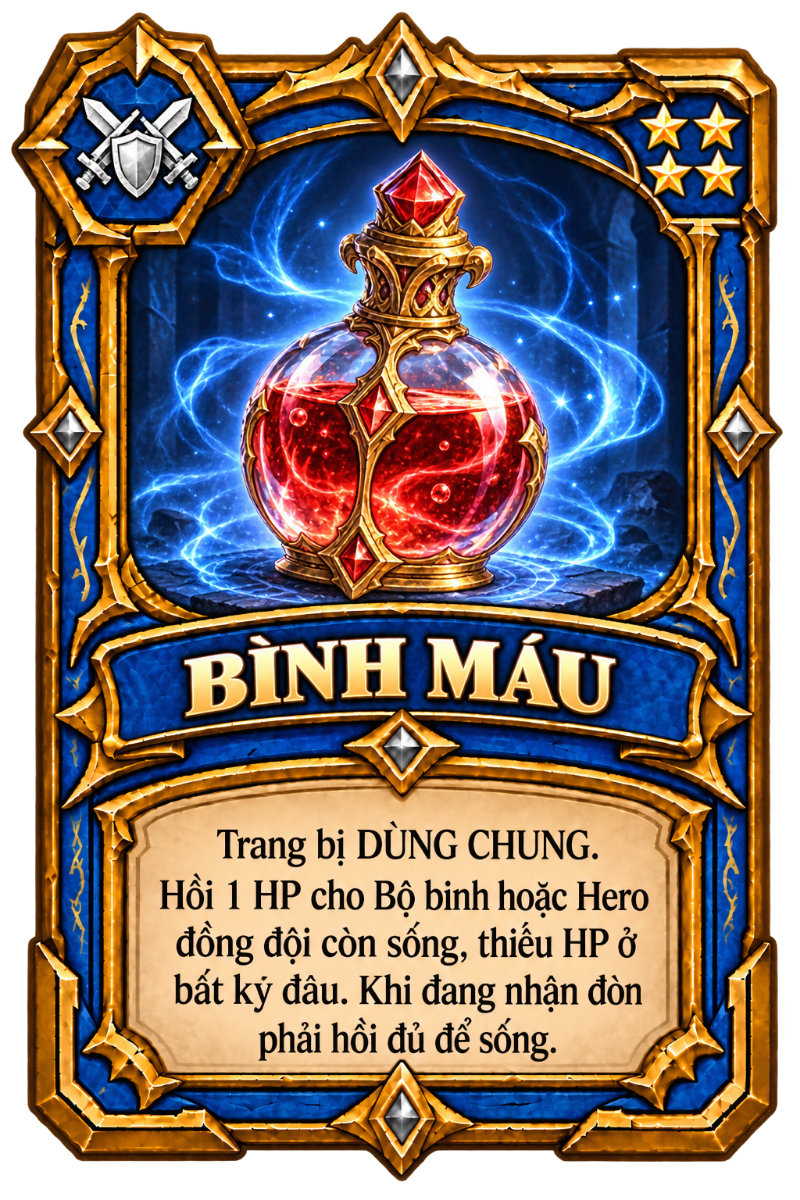
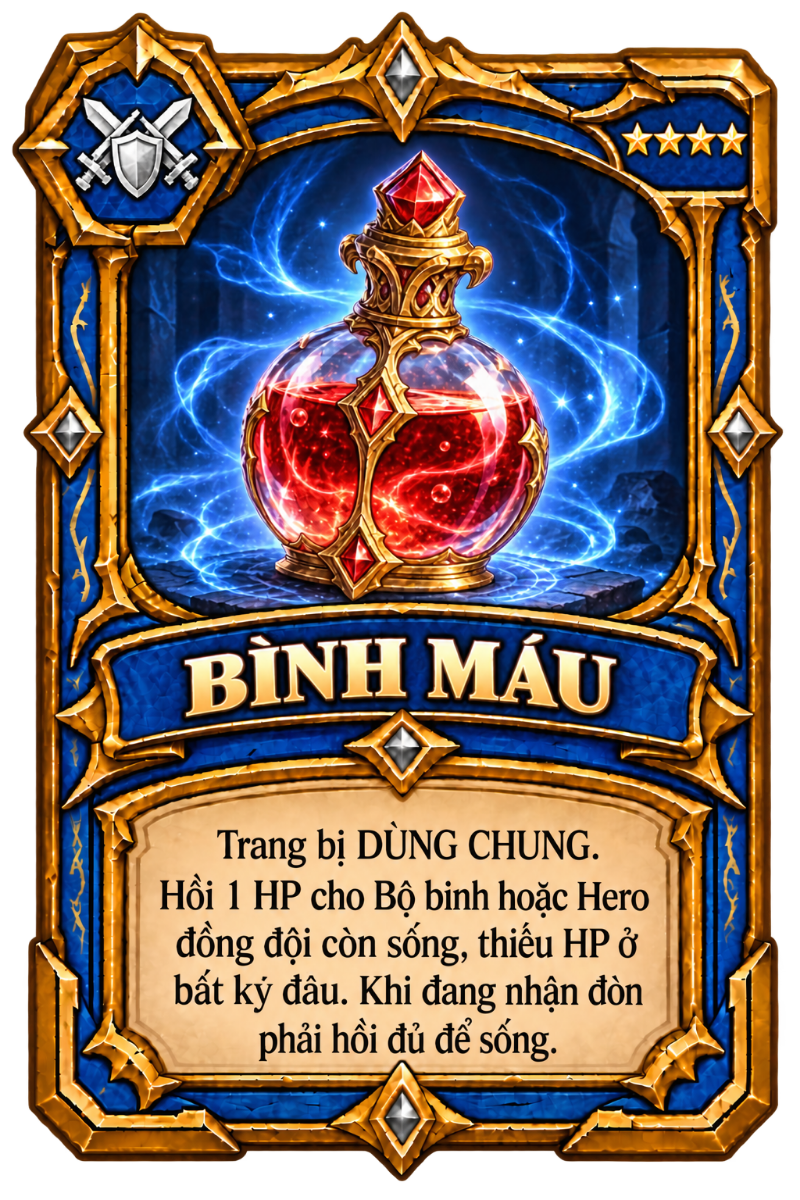
fix(assets): arrange Healing Potion stars in a single horizontal row

diff --git a/assets/card-gallery/common/index.html b/assets/card-gallery/common/index.html
@@ -1,1 +1,1 @@
-<!doctype html><html lang="vi"><head><meta charset="utf-8"><meta name="viewport" content="width=device-width,initial-scale=1"><title>DozenWar — Trang bị dùng chung</title><style>body{margin:0;padding:24px;background:#111c32;color:#eef4ff;font:16px system-ui}main{max-width:1300px;margin:auto}.cards{display:grid;grid-template-columns:repeat(auto-fit,minmax(260px,1fr));gap:24px}article{background:#203452;padding:16px;border-radius:12px}.preview{display:block;margin-top:12px;background-color:#22344c;background-image:linear-gradient(45deg,#2c4059 25%,transparent 25%),linear-gradient(-45deg,#2c4059 25%,transparent 25%),linear-gradient(45deg,transparent 75%,#2c4059 75%),linear-gradient(-45deg,transparent 75%,#2c4059 75%);background-size:24px 24px;background-position:0 0,0 12px,12px -12px,-12px 0}img{width:100%;height:auto;display:block}a{color:#ffd583}h2{font-size:20px}details{margin-top:12px}summary{cursor:pointer}@media(max-width:420px){body{padding:12px}}</style></head><body><main><h1>Trang bị dùng chung — tông xanh dương</h1><p>11 mẫu · 23 lá trong deck. PNG 800 × 1200, nền trong suốt ngoài khung. Dữ liệu theo catalog DozenWar trên GitHub.</p><p><a href="catalog.json" download>Tải catalog JSON</a> · <a href="../../../">Về game</a></p><div class="cards"><article data-equipment-id="EQUIP_COMMON_ATK_003"><h2>Lọ Phép Thuật</h2><p>Công · 1 sao · 1 lá trong deck</p><a href="EQUIP_COMMON_ATK_003.png" download>Tải PNG 800 × 1200</a><a class="preview" href="EQUIP_COMMON_ATK_003.png"><img loading="lazy" src="EQUIP_COMMON_ATK_003.png" alt="Lọ Phép Thuật" width="800" height="1200"></a><details><summary>Hiệu ứng trong catalog</summary><p>Đòn thường và skill Attack trong một commit không được Guard Bộ binh; vẫn có phản ứng phòng thủ khác hợp lệ.</p></details></article><article data-equipment-id="EQUIP_COMMON_ATK_004"><h2>Thuốc Hồi Sức</h2><p>Công · 1 sao · 2 lá trong deck</p><a href="EQUIP_COMMON_ATK_004.png" download>Tải PNG 800 × 1200</a><a class="preview" href="EQUIP_COMMON_ATK_004.png"><img loading="lazy" src="EQUIP_COMMON_ATK_004.png" alt="Thuốc Hồi Sức" width="800" height="1200"></a><details><summary>Hiệu ứng trong catalog</summary><p>+1 lần tấn công cho đòn thường hoặc skill Attack trong một commit; mỗi lần mở phản ứng phòng thủ riêng.</p></details></article><article data-equipment-id="EQUIP_COMMON_DEF_001"><h2>Quyền Trượng Phép Thuật</h2><p>Thủ · 3 sao · 2 lá trong deck</p><a href="EQUIP_COMMON_DEF_001.png" download>Tải PNG 800 × 1200</a><a class="preview" href="EQUIP_COMMON_DEF_001.png"><img loading="lazy" src="EQUIP_COMMON_DEF_001.png" alt="Quyền Trượng Phép Thuật" width="800" height="1200"></a><details><summary>Hiệu ứng trong catalog</summary><p>Hủy một đòn tấn công, gồm sát thương và hiệu ứng lên đơn vị được bảo vệ; vẫn so sánh sao.</p></details></article><article data-equipment-id="EQUIP_COMMON_ATK_001"><h2>Triệu Gọi Ám Kỵ</h2><p>Công · 1 sao · 2 lá trong deck</p><a href="EQUIP_COMMON_ATK_001.png" download>Tải PNG 800 × 1200</a><a class="preview" href="EQUIP_COMMON_ATK_001.png"><img loading="lazy" src="EQUIP_COMMON_ATK_001.png" alt="Triệu Gọi Ám Kỵ" width="800" height="1200"></a><details><summary>Hiệu ứng trong catalog</summary><p>Tạo 1 lính Kỵ binh mới ở hex hợp lệ cạnh Hero còn sống. Lính được đi và đánh ngay; không mất HP, không commit Hero.</p></details></article><article data-equipment-id="EQUIP_COMMON_ATK_002"><h2>Kèn Gọi Quân</h2><p>Công · 1 sao · 2 lá trong deck</p><a href="EQUIP_COMMON_ATK_002.png" download>Tải PNG 800 × 1200</a><a class="preview" href="EQUIP_COMMON_ATK_002.png"><img loading="lazy" src="EQUIP_COMMON_ATK_002.png" alt="Kèn Gọi Quân" width="800" height="1200"></a><details><summary>Hiệu ứng trong catalog</summary><p>Tạo 1 lính Cung thủ mới ở hex hợp lệ cạnh Hero còn sống. Lính được đi và đánh ngay; không cần lính chết.</p></details></article><article data-equipment-id="EQUIP_COMMON_BOTH_001"><h2>Bình Máu</h2><p>Công và thủ · 4 sao · 4 lá trong deck</p><a href="EQUIP_COMMON_BOTH_001.png" download>Tải PNG 800 × 1200</a><a class="preview" href="EQUIP_COMMON_BOTH_001.png"><img loading="lazy" src="EQUIP_COMMON_BOTH_001.png" alt="Bình Máu" width="800" height="1200"></a><details><summary>Hiệu ứng trong catalog</summary><p>Hồi 1 HP cho Bộ binh hoặc Hero đồng đội còn sống, thiếu HP ở bất kỳ đâu. Khi đang nhận đòn phải hồi đủ để sống.</p></details></article><article data-equipment-id="EQUIP_COMMON_ATK_005"><h2>Thuốc Tăng Lực</h2><p>Công · 1 sao · 2 lá trong deck</p><a href="EQUIP_COMMON_ATK_005.png" download>Tải PNG 800 × 1200</a><a class="preview" href="EQUIP_COMMON_ATK_005.png"><img loading="lazy" src="EQUIP_COMMON_ATK_005.png" alt="Thuốc Tăng Lực" width="800" height="1200"></a><details><summary>Hiệu ứng trong catalog</summary><p>Cho 1 đồng đội chưa Attack thêm số ô bằng di chuyển cơ bản, kể cả đã di chuyển. Hết lượt công thì hết buff.</p></details></article><article data-equipment-id="EQUIP_COMMON_BOTH_002"><h2>Dây Chuyền May Mắn</h2><p>Công và thủ · 5 sao · 2 lá trong deck</p><a href="EQUIP_COMMON_BOTH_002.png" download>Tải PNG 800 × 1200</a><a class="preview" href="EQUIP_COMMON_BOTH_002.png"><img loading="lazy" src="EQUIP_COMMON_BOTH_002.png" alt="Dây Chuyền May Mắn" width="800" height="1200"></a><details><summary>Hiệu ứng trong catalog</summary><p>Hủy toàn bộ hiệu ứng của 1 card địch vừa dùng trước khi xử lý. Card bị hủy vẫn rời tay và tiêu hao ngân sách.</p></details></article><article data-equipment-id="EQUIP_COMMON_BOTH_003"><h2>Đánh Cắp</h2><p>Công và thủ · 4 sao · 2 lá trong deck</p><a href="EQUIP_COMMON_BOTH_003.png" download>Tải PNG 800 × 1200</a><a class="preview" href="EQUIP_COMMON_BOTH_003.png"><img loading="lazy" src="EQUIP_COMMON_BOTH_003.png" alt="Đánh Cắp" width="800" height="1200"></a><details><summary>Hiệu ứng trong catalog</summary><p>Xem tay địch và chọn lấy 1 card chưa dùng. Được dùng ngay nếu còn ngân sách.</p></details></article><article data-equipment-id="EQUIP_COMMON_BOTH_004"><h2>Nhẫn Dịch Chuyển</h2><p>Công và thủ · 3 sao · 2 lá trong deck</p><a href="EQUIP_COMMON_BOTH_004.png" download>Tải PNG 800 × 1200</a><a class="preview" href="EQUIP_COMMON_BOTH_004.png"><img loading="lazy" src="EQUIP_COMMON_BOTH_004.png" alt="Nhẫn Dịch Chuyển" width="800" height="1200"></a><details><summary>Hiệu ứng trong catalog</summary><p>Chỉ Hero đồng đội còn sống; lượt công phải chưa Attack. Dịch chuyển đến hex hợp lệ khác trong tối đa 4 ô, bỏ qua quân/vật cản và không tiêu hao di chuyển thường. Lượt thủ: chỉ khi Hero đang bị đánh, đủ 3 sao để hủy sát thương và hiệu ứng đòn.</p></details></article><article data-equipment-id="EQUIP_COMMON_ATK_006"><h2>Thích Khách</h2><p>Công · 4 sao · 2 lá trong deck</p><a href="EQUIP_COMMON_ATK_006.png" download>Tải PNG 800 × 1200</a><a class="preview" href="EQUIP_COMMON_ATK_006.png"><img loading="lazy" src="EQUIP_COMMON_ATK_006.png" alt="Thích Khách" width="800" height="1200"></a><details><summary>Hiệu ứng trong catalog</summary><p>Gây 1 sát thương cho 1 Hero địch trên toàn bản đồ. Bộ binh có thể đỡ đòn. Không tiêu hao quyền Attack.</p></details></article></div></main></body></html>
+<!doctype html><html lang="vi"><head><meta charset="utf-8"><meta name="viewport" content="width=device-width,initial-scale=1"><title>DozenWar — Trang bị dùng chung</title><style>body{margin:0;padding:24px;background:#111c32;color:#eef4ff;font:16px system-ui}main{max-width:1300px;margin:auto}.cards{display:grid;grid-template-columns:repeat(auto-fit,minmax(260px,1fr));gap:24px}article{background:#203452;padding:16px;border-radius:12px}.preview{display:block;margin-top:12px;background-color:#22344c;background-image:linear-gradient(45deg,#2c4059 25%,transparent 25%),linear-gradient(-45deg,#2c4059 25%,transparent 25%),linear-gradient(45deg,transparent 75%,#2c4059 75%),linear-gradient(-45deg,transparent 75%,#2c4059 75%);background-size:24px 24px;background-position:0 0,0 12px,12px -12px,-12px 0}img{width:100%;height:auto;display:block}a{color:#ffd583}h2{font-size:20px}details{margin-top:12px}summary{cursor:pointer}@media(max-width:420px){body{padding:12px}}</style></head><body><main><h1>Trang bị dùng chung — tông xanh dương</h1><p>11 mẫu · 23 lá trong deck. PNG 800 × 1200, nền trong suốt ngoài khung. Dữ liệu theo catalog DozenWar trên GitHub.</p><p><a href="catalog.json" download>Tải catalog JSON</a> · <a href="../../../">Về game</a></p><div class="cards"><article data-equipment-id="EQUIP_COMMON_ATK_003"><h2>Lọ Phép Thuật</h2><p>Công · 1 sao · 1 lá trong deck</p><a href="EQUIP_COMMON_ATK_003.png" download>Tải PNG 800 × 1200</a><a class="preview" href="EQUIP_COMMON_ATK_003.png"><img loading="lazy" src="EQUIP_COMMON_ATK_003.png" alt="Lọ Phép Thuật" width="800" height="1200"></a><details><summary>Hiệu ứng trong catalog</summary><p>Đòn thường và skill Attack trong một commit không được Guard Bộ binh; vẫn có phản ứng phòng thủ khác hợp lệ.</p></details></article><article data-equipment-id="EQUIP_COMMON_ATK_004"><h2>Thuốc Hồi Sức</h2><p>Công · 1 sao · 2 lá trong deck</p><a href="EQUIP_COMMON_ATK_004.png" download>Tải PNG 800 × 1200</a><a class="preview" href="EQUIP_COMMON_ATK_004.png"><img loading="lazy" src="EQUIP_COMMON_ATK_004.png" alt="Thuốc Hồi Sức" width="800" height="1200"></a><details><summary>Hiệu ứng trong catalog</summary><p>+1 lần tấn công cho đòn thường hoặc skill Attack trong một commit; mỗi lần mở phản ứng phòng thủ riêng.</p></details></article><article data-equipment-id="EQUIP_COMMON_DEF_001"><h2>Quyền Trượng Phép Thuật</h2><p>Thủ · 3 sao · 2 lá trong deck</p><a href="EQUIP_COMMON_DEF_001.png" download>Tải PNG 800 × 1200</a><a class="preview" href="EQUIP_COMMON_DEF_001.png"><img loading="lazy" src="EQUIP_COMMON_DEF_001.png" alt="Quyền Trượng Phép Thuật" width="800" height="1200"></a><details><summary>Hiệu ứng trong catalog</summary><p>Hủy một đòn tấn công, gồm sát thương và hiệu ứng lên đơn vị được bảo vệ; vẫn so sánh sao.</p></details></article><article data-equipment-id="EQUIP_COMMON_ATK_001"><h2>Triệu Gọi Ám Kỵ</h2><p>Công · 1 sao · 2 lá trong deck</p><a href="EQUIP_COMMON_ATK_001.png" download>Tải PNG 800 × 1200</a><a class="preview" href="EQUIP_COMMON_ATK_001.png"><img loading="lazy" src="EQUIP_COMMON_ATK_001.png" alt="Triệu Gọi Ám Kỵ" width="800" height="1200"></a><details><summary>Hiệu ứng trong catalog</summary><p>Tạo 1 lính Kỵ binh mới ở hex hợp lệ cạnh Hero còn sống. Lính được đi và đánh ngay; không mất HP, không commit Hero.</p></details></article><article data-equipment-id="EQUIP_COMMON_ATK_002"><h2>Kèn Gọi Quân</h2><p>Công · 1 sao · 2 lá trong deck</p><a href="EQUIP_COMMON_ATK_002.png" download>Tải PNG 800 × 1200</a><a class="preview" href="EQUIP_COMMON_ATK_002.png"><img loading="lazy" src="EQUIP_COMMON_ATK_002.png" alt="Kèn Gọi Quân" width="800" height="1200"></a><details><summary>Hiệu ứng trong catalog</summary><p>Tạo 1 lính Cung thủ mới ở hex hợp lệ cạnh Hero còn sống. Lính được đi và đánh ngay; không cần lính chết.</p></details></article><article data-equipment-id="EQUIP_COMMON_BOTH_001"><h2>Bình Máu</h2><p>Công và thủ · 4 sao · 4 lá trong deck</p><a href="EQUIP_COMMON_BOTH_001.png?v=stars-horizontal-1" download>Tải PNG 800 × 1200</a><a class="preview" href="EQUIP_COMMON_BOTH_001.png?v=stars-horizontal-1"><img loading="lazy" src="EQUIP_COMMON_BOTH_001.png?v=stars-horizontal-1" alt="Bình Máu" width="800" height="1200"></a><details><summary>Hiệu ứng trong catalog</summary><p>Hồi 1 HP cho Bộ binh hoặc Hero đồng đội còn sống, thiếu HP ở bất kỳ đâu. Khi đang nhận đòn phải hồi đủ để sống.</p></details></article><article data-equipment-id="EQUIP_COMMON_ATK_005"><h2>Thuốc Tăng Lực</h2><p>Công · 1 sao · 2 lá trong deck</p><a href="EQUIP_COMMON_ATK_005.png" download>Tải PNG 800 × 1200</a><a class="preview" href="EQUIP_COMMON_ATK_005.png"><img loading="lazy" src="EQUIP_COMMON_ATK_005.png" alt="Thuốc Tăng Lực" width="800" height="1200"></a><details><summary>Hiệu ứng trong catalog</summary><p>Cho 1 đồng đội chưa Attack thêm số ô bằng di chuyển cơ bản, kể cả đã di chuyển. Hết lượt công thì hết buff.</p></details></article><article data-equipment-id="EQUIP_COMMON_BOTH_002"><h2>Dây Chuyền May Mắn</h2><p>Công và thủ · 5 sao · 2 lá trong deck</p><a href="EQUIP_COMMON_BOTH_002.png" download>Tải PNG 800 × 1200</a><a class="preview" href="EQUIP_COMMON_BOTH_002.png"><img loading="lazy" src="EQUIP_COMMON_BOTH_002.png" alt="Dây Chuyền May Mắn" width="800" height="1200"></a><details><summary>Hiệu ứng trong catalog</summary><p>Hủy toàn bộ hiệu ứng của 1 card địch vừa dùng trước khi xử lý. Card bị hủy vẫn rời tay và tiêu hao ngân sách.</p></details></article><article data-equipment-id="EQUIP_COMMON_BOTH_003"><h2>Đánh Cắp</h2><p>Công và thủ · 4 sao · 2 lá trong deck</p><a href="EQUIP_COMMON_BOTH_003.png" download>Tải PNG 800 × 1200</a><a class="preview" href="EQUIP_COMMON_BOTH_003.png"><img loading="lazy" src="EQUIP_COMMON_BOTH_003.png" alt="Đánh Cắp" width="800" height="1200"></a><details><summary>Hiệu ứng trong catalog</summary><p>Xem tay địch và chọn lấy 1 card chưa dùng. Được dùng ngay nếu còn ngân sách.</p></details></article><article data-equipment-id="EQUIP_COMMON_BOTH_004"><h2>Nhẫn Dịch Chuyển</h2><p>Công và thủ · 3 sao · 2 lá trong deck</p><a href="EQUIP_COMMON_BOTH_004.png" download>Tải PNG 800 × 1200</a><a class="preview" href="EQUIP_COMMON_BOTH_004.png"><img loading="lazy" src="EQUIP_COMMON_BOTH_004.png" alt="Nhẫn Dịch Chuyển" width="800" height="1200"></a><details><summary>Hiệu ứng trong catalog</summary><p>Chỉ Hero đồng đội còn sống; lượt công phải chưa Attack. Dịch chuyển đến hex hợp lệ khác trong tối đa 4 ô, bỏ qua quân/vật cản và không tiêu hao di chuyển thường. Lượt thủ: chỉ khi Hero đang bị đánh, đủ 3 sao để hủy sát thương và hiệu ứng đòn.</p></details></article><article data-equipment-id="EQUIP_COMMON_ATK_006"><h2>Thích Khách</h2><p>Công · 4 sao · 2 lá trong deck</p><a href="EQUIP_COMMON_ATK_006.png" download>Tải PNG 800 × 1200</a><a class="preview" href="EQUIP_COMMON_ATK_006.png"><img loading="lazy" src="EQUIP_COMMON_ATK_006.png" alt="Thích Khách" width="800" height="1200"></a><details><summary>Hiệu ứng trong catalog</summary><p>Gây 1 sát thương cho 1 Hero địch trên toàn bản đồ. Bộ binh có thể đỡ đòn. Không tiêu hao quyền Attack.</p></details></article></div></main></body></html>

diff --git a/dist/assets/card-gallery/common/index.html b/dist/assets/card-gallery/common/index.html
@@ -1,1 +1,1 @@
-<!doctype html><html lang="vi"><head><meta charset="utf-8"><meta name="viewport" content="width=device-width,initial-scale=1"><title>DozenWar — Trang bị dùng chung</title><style>body{margin:0;padding:24px;background:#111c32;color:#eef4ff;font:16px system-ui}main{max-width:1300px;margin:auto}.cards{display:grid;grid-template-columns:repeat(auto-fit,minmax(260px,1fr));gap:24px}article{background:#203452;padding:16px;border-radius:12px}.preview{display:block;margin-top:12px;background-color:#22344c;background-image:linear-gradient(45deg,#2c4059 25%,transparent 25%),linear-gradient(-45deg,#2c4059 25%,transparent 25%),linear-gradient(45deg,transparent 75%,#2c4059 75%),linear-gradient(-45deg,transparent 75%,#2c4059 75%);background-size:24px 24px;background-position:0 0,0 12px,12px -12px,-12px 0}img{width:100%;height:auto;display:block}a{color:#ffd583}h2{font-size:20px}details{margin-top:12px}summary{cursor:pointer}@media(max-width:420px){body{padding:12px}}</style></head><body><main><h1>Trang bị dùng chung — tông xanh dương</h1><p>11 mẫu · 23 lá trong deck. PNG 800 × 1200, nền trong suốt ngoài khung. Dữ liệu theo catalog DozenWar trên GitHub.</p><p><a href="catalog.json" download>Tải catalog JSON</a> · <a href="../../../">Về game</a></p><div class="cards"><article data-equipment-id="EQUIP_COMMON_ATK_003"><h2>Lọ Phép Thuật</h2><p>Công · 1 sao · 1 lá trong deck</p><a href="EQUIP_COMMON_ATK_003.png" download>Tải PNG 800 × 1200</a><a class="preview" href="EQUIP_COMMON_ATK_003.png"><img loading="lazy" src="EQUIP_COMMON_ATK_003.png" alt="Lọ Phép Thuật" width="800" height="1200"></a><details><summary>Hiệu ứng trong catalog</summary><p>Đòn thường và skill Attack trong một commit không được Guard Bộ binh; vẫn có phản ứng phòng thủ khác hợp lệ.</p></details></article><article data-equipment-id="EQUIP_COMMON_ATK_004"><h2>Thuốc Hồi Sức</h2><p>Công · 1 sao · 2 lá trong deck</p><a href="EQUIP_COMMON_ATK_004.png" download>Tải PNG 800 × 1200</a><a class="preview" href="EQUIP_COMMON_ATK_004.png"><img loading="lazy" src="EQUIP_COMMON_ATK_004.png" alt="Thuốc Hồi Sức" width="800" height="1200"></a><details><summary>Hiệu ứng trong catalog</summary><p>+1 lần tấn công cho đòn thường hoặc skill Attack trong một commit; mỗi lần mở phản ứng phòng thủ riêng.</p></details></article><article data-equipment-id="EQUIP_COMMON_DEF_001"><h2>Quyền Trượng Phép Thuật</h2><p>Thủ · 3 sao · 2 lá trong deck</p><a href="EQUIP_COMMON_DEF_001.png" download>Tải PNG 800 × 1200</a><a class="preview" href="EQUIP_COMMON_DEF_001.png"><img loading="lazy" src="EQUIP_COMMON_DEF_001.png" alt="Quyền Trượng Phép Thuật" width="800" height="1200"></a><details><summary>Hiệu ứng trong catalog</summary><p>Hủy một đòn tấn công, gồm sát thương và hiệu ứng lên đơn vị được bảo vệ; vẫn so sánh sao.</p></details></article><article data-equipment-id="EQUIP_COMMON_ATK_001"><h2>Triệu Gọi Ám Kỵ</h2><p>Công · 1 sao · 2 lá trong deck</p><a href="EQUIP_COMMON_ATK_001.png" download>Tải PNG 800 × 1200</a><a class="preview" href="EQUIP_COMMON_ATK_001.png"><img loading="lazy" src="EQUIP_COMMON_ATK_001.png" alt="Triệu Gọi Ám Kỵ" width="800" height="1200"></a><details><summary>Hiệu ứng trong catalog</summary><p>Tạo 1 lính Kỵ binh mới ở hex hợp lệ cạnh Hero còn sống. Lính được đi và đánh ngay; không mất HP, không commit Hero.</p></details></article><article data-equipment-id="EQUIP_COMMON_ATK_002"><h2>Kèn Gọi Quân</h2><p>Công · 1 sao · 2 lá trong deck</p><a href="EQUIP_COMMON_ATK_002.png" download>Tải PNG 800 × 1200</a><a class="preview" href="EQUIP_COMMON_ATK_002.png"><img loading="lazy" src="EQUIP_COMMON_ATK_002.png" alt="Kèn Gọi Quân" width="800" height="1200"></a><details><summary>Hiệu ứng trong catalog</summary><p>Tạo 1 lính Cung thủ mới ở hex hợp lệ cạnh Hero còn sống. Lính được đi và đánh ngay; không cần lính chết.</p></details></article><article data-equipment-id="EQUIP_COMMON_BOTH_001"><h2>Bình Máu</h2><p>Công và thủ · 4 sao · 4 lá trong deck</p><a href="EQUIP_COMMON_BOTH_001.png" download>Tải PNG 800 × 1200</a><a class="preview" href="EQUIP_COMMON_BOTH_001.png"><img loading="lazy" src="EQUIP_COMMON_BOTH_001.png" alt="Bình Máu" width="800" height="1200"></a><details><summary>Hiệu ứng trong catalog</summary><p>Hồi 1 HP cho Bộ binh hoặc Hero đồng đội còn sống, thiếu HP ở bất kỳ đâu. Khi đang nhận đòn phải hồi đủ để sống.</p></details></article><article data-equipment-id="EQUIP_COMMON_ATK_005"><h2>Thuốc Tăng Lực</h2><p>Công · 1 sao · 2 lá trong deck</p><a href="EQUIP_COMMON_ATK_005.png" download>Tải PNG 800 × 1200</a><a class="preview" href="EQUIP_COMMON_ATK_005.png"><img loading="lazy" src="EQUIP_COMMON_ATK_005.png" alt="Thuốc Tăng Lực" width="800" height="1200"></a><details><summary>Hiệu ứng trong catalog</summary><p>Cho 1 đồng đội chưa Attack thêm số ô bằng di chuyển cơ bản, kể cả đã di chuyển. Hết lượt công thì hết buff.</p></details></article><article data-equipment-id="EQUIP_COMMON_BOTH_002"><h2>Dây Chuyền May Mắn</h2><p>Công và thủ · 5 sao · 2 lá trong deck</p><a href="EQUIP_COMMON_BOTH_002.png" download>Tải PNG 800 × 1200</a><a class="preview" href="EQUIP_COMMON_BOTH_002.png"><img loading="lazy" src="EQUIP_COMMON_BOTH_002.png" alt="Dây Chuyền May Mắn" width="800" height="1200"></a><details><summary>Hiệu ứng trong catalog</summary><p>Hủy toàn bộ hiệu ứng của 1 card địch vừa dùng trước khi xử lý. Card bị hủy vẫn rời tay và tiêu hao ngân sách.</p></details></article><article data-equipment-id="EQUIP_COMMON_BOTH_003"><h2>Đánh Cắp</h2><p>Công và thủ · 4 sao · 2 lá trong deck</p><a href="EQUIP_COMMON_BOTH_003.png" download>Tải PNG 800 × 1200</a><a class="preview" href="EQUIP_COMMON_BOTH_003.png"><img loading="lazy" src="EQUIP_COMMON_BOTH_003.png" alt="Đánh Cắp" width="800" height="1200"></a><details><summary>Hiệu ứng trong catalog</summary><p>Xem tay địch và chọn lấy 1 card chưa dùng. Được dùng ngay nếu còn ngân sách.</p></details></article><article data-equipment-id="EQUIP_COMMON_BOTH_004"><h2>Nhẫn Dịch Chuyển</h2><p>Công và thủ · 3 sao · 2 lá trong deck</p><a href="EQUIP_COMMON_BOTH_004.png" download>Tải PNG 800 × 1200</a><a class="preview" href="EQUIP_COMMON_BOTH_004.png"><img loading="lazy" src="EQUIP_COMMON_BOTH_004.png" alt="Nhẫn Dịch Chuyển" width="800" height="1200"></a><details><summary>Hiệu ứng trong catalog</summary><p>Chỉ Hero đồng đội còn sống; lượt công phải chưa Attack. Dịch chuyển đến hex hợp lệ khác trong tối đa 4 ô, bỏ qua quân/vật cản và không tiêu hao di chuyển thường. Lượt thủ: chỉ khi Hero đang bị đánh, đủ 3 sao để hủy sát thương và hiệu ứng đòn.</p></details></article><article data-equipment-id="EQUIP_COMMON_ATK_006"><h2>Thích Khách</h2><p>Công · 4 sao · 2 lá trong deck</p><a href="EQUIP_COMMON_ATK_006.png" download>Tải PNG 800 × 1200</a><a class="preview" href="EQUIP_COMMON_ATK_006.png"><img loading="lazy" src="EQUIP_COMMON_ATK_006.png" alt="Thích Khách" width="800" height="1200"></a><details><summary>Hiệu ứng trong catalog</summary><p>Gây 1 sát thương cho 1 Hero địch trên toàn bản đồ. Bộ binh có thể đỡ đòn. Không tiêu hao quyền Attack.</p></details></article></div></main></body></html>
+<!doctype html><html lang="vi"><head><meta charset="utf-8"><meta name="viewport" content="width=device-width,initial-scale=1"><title>DozenWar — Trang bị dùng chung</title><style>body{margin:0;padding:24px;background:#111c32;color:#eef4ff;font:16px system-ui}main{max-width:1300px;margin:auto}.cards{display:grid;grid-template-columns:repeat(auto-fit,minmax(260px,1fr));gap:24px}article{background:#203452;padding:16px;border-radius:12px}.preview{display:block;margin-top:12px;background-color:#22344c;background-image:linear-gradient(45deg,#2c4059 25%,transparent 25%),linear-gradient(-45deg,#2c4059 25%,transparent 25%),linear-gradient(45deg,transparent 75%,#2c4059 75%),linear-gradient(-45deg,transparent 75%,#2c4059 75%);background-size:24px 24px;background-position:0 0,0 12px,12px -12px,-12px 0}img{width:100%;height:auto;display:block}a{color:#ffd583}h2{font-size:20px}details{margin-top:12px}summary{cursor:pointer}@media(max-width:420px){body{padding:12px}}</style></head><body><main><h1>Trang bị dùng chung — tông xanh dương</h1><p>11 mẫu · 23 lá trong deck. PNG 800 × 1200, nền trong suốt ngoài khung. Dữ liệu theo catalog DozenWar trên GitHub.</p><p><a href="catalog.json" download>Tải catalog JSON</a> · <a href="../../../">Về game</a></p><div class="cards"><article data-equipment-id="EQUIP_COMMON_ATK_003"><h2>Lọ Phép Thuật</h2><p>Công · 1 sao · 1 lá trong deck</p><a href="EQUIP_COMMON_ATK_003.png" download>Tải PNG 800 × 1200</a><a class="preview" href="EQUIP_COMMON_ATK_003.png"><img loading="lazy" src="EQUIP_COMMON_ATK_003.png" alt="Lọ Phép Thuật" width="800" height="1200"></a><details><summary>Hiệu ứng trong catalog</summary><p>Đòn thường và skill Attack trong một commit không được Guard Bộ binh; vẫn có phản ứng phòng thủ khác hợp lệ.</p></details></article><article data-equipment-id="EQUIP_COMMON_ATK_004"><h2>Thuốc Hồi Sức</h2><p>Công · 1 sao · 2 lá trong deck</p><a href="EQUIP_COMMON_ATK_004.png" download>Tải PNG 800 × 1200</a><a class="preview" href="EQUIP_COMMON_ATK_004.png"><img loading="lazy" src="EQUIP_COMMON_ATK_004.png" alt="Thuốc Hồi Sức" width="800" height="1200"></a><details><summary>Hiệu ứng trong catalog</summary><p>+1 lần tấn công cho đòn thường hoặc skill Attack trong một commit; mỗi lần mở phản ứng phòng thủ riêng.</p></details></article><article data-equipment-id="EQUIP_COMMON_DEF_001"><h2>Quyền Trượng Phép Thuật</h2><p>Thủ · 3 sao · 2 lá trong deck</p><a href="EQUIP_COMMON_DEF_001.png" download>Tải PNG 800 × 1200</a><a class="preview" href="EQUIP_COMMON_DEF_001.png"><img loading="lazy" src="EQUIP_COMMON_DEF_001.png" alt="Quyền Trượng Phép Thuật" width="800" height="1200"></a><details><summary>Hiệu ứng trong catalog</summary><p>Hủy một đòn tấn công, gồm sát thương và hiệu ứng lên đơn vị được bảo vệ; vẫn so sánh sao.</p></details></article><article data-equipment-id="EQUIP_COMMON_ATK_001"><h2>Triệu Gọi Ám Kỵ</h2><p>Công · 1 sao · 2 lá trong deck</p><a href="EQUIP_COMMON_ATK_001.png" download>Tải PNG 800 × 1200</a><a class="preview" href="EQUIP_COMMON_ATK_001.png"><img loading="lazy" src="EQUIP_COMMON_ATK_001.png" alt="Triệu Gọi Ám Kỵ" width="800" height="1200"></a><details><summary>Hiệu ứng trong catalog</summary><p>Tạo 1 lính Kỵ binh mới ở hex hợp lệ cạnh Hero còn sống. Lính được đi và đánh ngay; không mất HP, không commit Hero.</p></details></article><article data-equipment-id="EQUIP_COMMON_ATK_002"><h2>Kèn Gọi Quân</h2><p>Công · 1 sao · 2 lá trong deck</p><a href="EQUIP_COMMON_ATK_002.png" download>Tải PNG 800 × 1200</a><a class="preview" href="EQUIP_COMMON_ATK_002.png"><img loading="lazy" src="EQUIP_COMMON_ATK_002.png" alt="Kèn Gọi Quân" width="800" height="1200"></a><details><summary>Hiệu ứng trong catalog</summary><p>Tạo 1 lính Cung thủ mới ở hex hợp lệ cạnh Hero còn sống. Lính được đi và đánh ngay; không cần lính chết.</p></details></article><article data-equipment-id="EQUIP_COMMON_BOTH_001"><h2>Bình Máu</h2><p>Công và thủ · 4 sao · 4 lá trong deck</p><a href="EQUIP_COMMON_BOTH_001.png?v=stars-horizontal-1" download>Tải PNG 800 × 1200</a><a class="preview" href="EQUIP_COMMON_BOTH_001.png?v=stars-horizontal-1"><img loading="lazy" src="EQUIP_COMMON_BOTH_001.png?v=stars-horizontal-1" alt="Bình Máu" width="800" height="1200"></a><details><summary>Hiệu ứng trong catalog</summary><p>Hồi 1 HP cho Bộ binh hoặc Hero đồng đội còn sống, thiếu HP ở bất kỳ đâu. Khi đang nhận đòn phải hồi đủ để sống.</p></details></article><article data-equipment-id="EQUIP_COMMON_ATK_005"><h2>Thuốc Tăng Lực</h2><p>Công · 1 sao · 2 lá trong deck</p><a href="EQUIP_COMMON_ATK_005.png" download>Tải PNG 800 × 1200</a><a class="preview" href="EQUIP_COMMON_ATK_005.png"><img loading="lazy" src="EQUIP_COMMON_ATK_005.png" alt="Thuốc Tăng Lực" width="800" height="1200"></a><details><summary>Hiệu ứng trong catalog</summary><p>Cho 1 đồng đội chưa Attack thêm số ô bằng di chuyển cơ bản, kể cả đã di chuyển. Hết lượt công thì hết buff.</p></details></article><article data-equipment-id="EQUIP_COMMON_BOTH_002"><h2>Dây Chuyền May Mắn</h2><p>Công và thủ · 5 sao · 2 lá trong deck</p><a href="EQUIP_COMMON_BOTH_002.png" download>Tải PNG 800 × 1200</a><a class="preview" href="EQUIP_COMMON_BOTH_002.png"><img loading="lazy" src="EQUIP_COMMON_BOTH_002.png" alt="Dây Chuyền May Mắn" width="800" height="1200"></a><details><summary>Hiệu ứng trong catalog</summary><p>Hủy toàn bộ hiệu ứng của 1 card địch vừa dùng trước khi xử lý. Card bị hủy vẫn rời tay và tiêu hao ngân sách.</p></details></article><article data-equipment-id="EQUIP_COMMON_BOTH_003"><h2>Đánh Cắp</h2><p>Công và thủ · 4 sao · 2 lá trong deck</p><a href="EQUIP_COMMON_BOTH_003.png" download>Tải PNG 800 × 1200</a><a class="preview" href="EQUIP_COMMON_BOTH_003.png"><img loading="lazy" src="EQUIP_COMMON_BOTH_003.png" alt="Đánh Cắp" width="800" height="1200"></a><details><summary>Hiệu ứng trong catalog</summary><p>Xem tay địch và chọn lấy 1 card chưa dùng. Được dùng ngay nếu còn ngân sách.</p></details></article><article data-equipment-id="EQUIP_COMMON_BOTH_004"><h2>Nhẫn Dịch Chuyển</h2><p>Công và thủ · 3 sao · 2 lá trong deck</p><a href="EQUIP_COMMON_BOTH_004.png" download>Tải PNG 800 × 1200</a><a class="preview" href="EQUIP_COMMON_BOTH_004.png"><img loading="lazy" src="EQUIP_COMMON_BOTH_004.png" alt="Nhẫn Dịch Chuyển" width="800" height="1200"></a><details><summary>Hiệu ứng trong catalog</summary><p>Chỉ Hero đồng đội còn sống; lượt công phải chưa Attack. Dịch chuyển đến hex hợp lệ khác trong tối đa 4 ô, bỏ qua quân/vật cản và không tiêu hao di chuyển thường. Lượt thủ: chỉ khi Hero đang bị đánh, đủ 3 sao để hủy sát thương và hiệu ứng đòn.</p></details></article><article data-equipment-id="EQUIP_COMMON_ATK_006"><h2>Thích Khách</h2><p>Công · 4 sao · 2 lá trong deck</p><a href="EQUIP_COMMON_ATK_006.png" download>Tải PNG 800 × 1200</a><a class="preview" href="EQUIP_COMMON_ATK_006.png"><img loading="lazy" src="EQUIP_COMMON_ATK_006.png" alt="Thích Khách" width="800" height="1200"></a><details><summary>Hiệu ứng trong catalog</summary><p>Gây 1 sát thương cho 1 Hero địch trên toàn bản đồ. Bộ binh có thể đỡ đòn. Không tiêu hao quyền Attack.</p></details></article></div></main></body></html>
